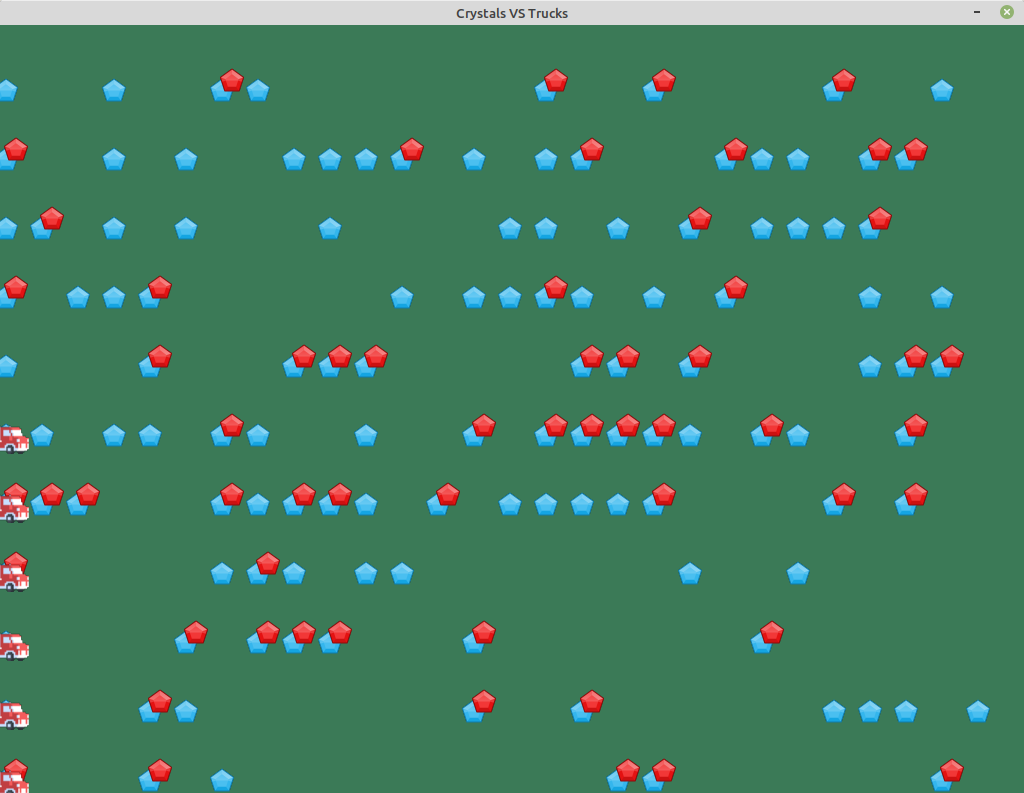
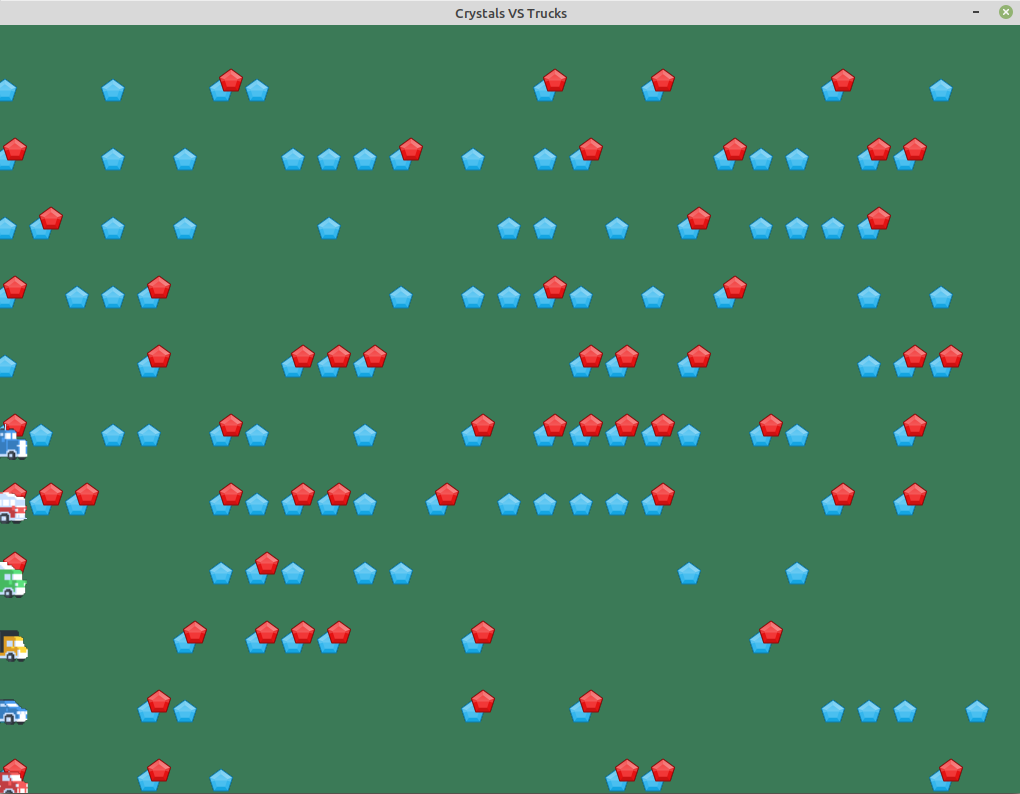
use different images for trucks

diff --git a/viewer.py b/viewer.py
@@ -1,18 +1,30 @@
 import arcade
 import copy
 
+# TODO fournir le fichier à lire par la ligne de commande
 # TODO pas plus d'une action par camion par cycle, en limitant le nombre de camions
 # TODO changement de la vitesse avec les flèches verticales
 # TODO déplacement dans le temps avec les flèches horizontales
 # TODO afficher le numéro du tour courant
 # TODO afficher le nombre de tours auquel il ne reste plus de cristaux
 # TODO ne pas gérer de commande wait
-# TODO mettre des camions différents
 # TODO fournir un moyen de capture de liaison série
 
 SCREEN_WIDTH = 1024
 SCREEN_HEIGHT = 768
 SCREEN_TITLE = "Crystals VS Trucks"
+
+trucks_images = (
+    "images/towtruck.png",
+    "images/transport.png",
+    "images/truckdark.png",
+    "images/truckdelivery.png",
+    "images/firetruck.png",
+    "images/truckcabin.png",
+    "images/truck.png",
+    "images/truckcabin_vintage.png",
+    "images/suv_closed.png",
+)
 
 
 class Truck:
@@ -127,7 +139,7 @@ class CrystalsVsTrucksGame(arcade.Window):
             for cell_y in range(self.grid_height):
                 if self.grid[cell_y][cell_x] > 0:
                     crystal_sprite = arcade.Sprite(
-                        "./element_blue_polygon_glossy.png", 0.5
+                        "images/element_blue_polygon_glossy.png", 0.5
                     )
                     x, y = self.position_to_px(cell_x, cell_y)
                     crystal_sprite.center_x = x - crystal_sprite.width // 2
@@ -135,7 +147,7 @@ class CrystalsVsTrucksGame(arcade.Window):
                     self.crystal_list.append(crystal_sprite)
                 if self.grid[cell_y][cell_x] > 1:
                     crystal_sprite = arcade.Sprite(
-                        "./element_red_polygon_glossy.png", 0.5
+                        "images/element_red_polygon_glossy.png", 0.5
                     )
                     x, y = self.position_to_px(cell_x, cell_y)
                     crystal_sprite.center_x = x - crystal_sprite.width // 2 + 10
@@ -143,8 +155,8 @@ class CrystalsVsTrucksGame(arcade.Window):
                     self.crystal_list.append(crystal_sprite)
 
         self.truck_list = arcade.SpriteList()
-        for truck in self.trucks:
-            truck_sprite = arcade.Sprite("./towtruck.png", 1.5)
+        for truck_id, truck in enumerate(self.trucks):
+            truck_sprite = arcade.Sprite(trucks_images[truck_id], 1.5)
             x, y = self.position_to_px(*truck.position_at(self.clock))
             truck_sprite.center_x = x - truck_sprite.width // 2 + 10
             truck_sprite.center_y = y - truck_sprite.height // 2 - 10

diff --git a/README.md b/README.md
@@ -5,6 +5,9 @@ crystals the fastest way.
 
 ![screenshot](crystals_vs_trucks.png)
 
+The images are from https://www.kenney.nl,
+under Creative Commons Zero (CC0) http://creativecommons.org/publicdomain/zero/1.0/.
+
 ## Rules
 
 A game description is provided. For instance:
